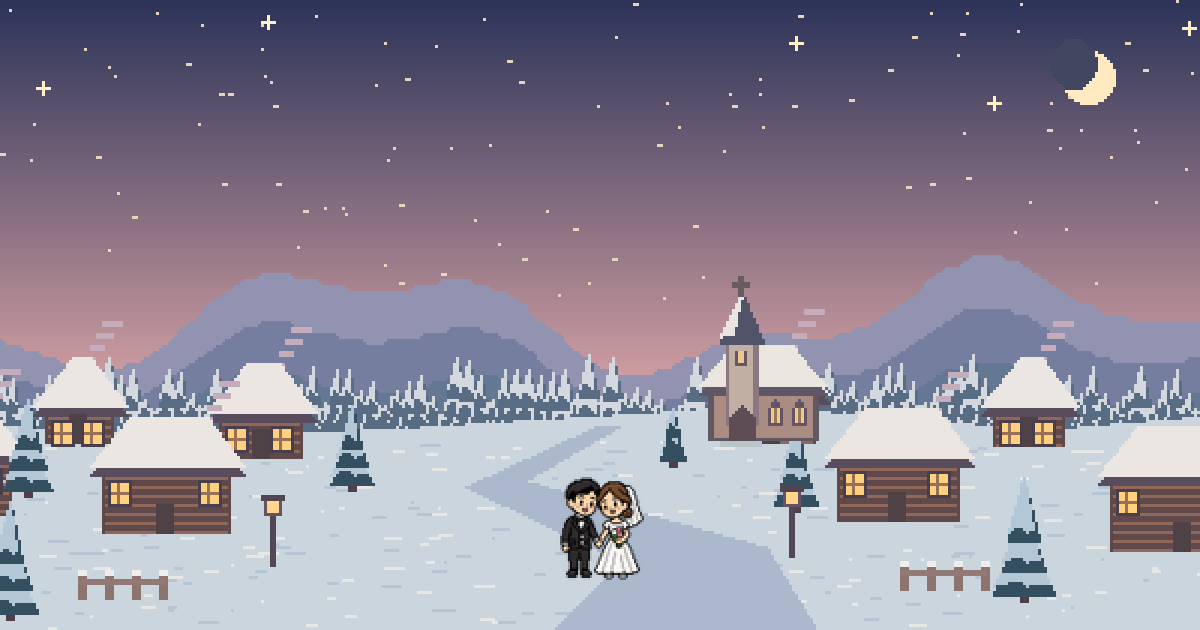
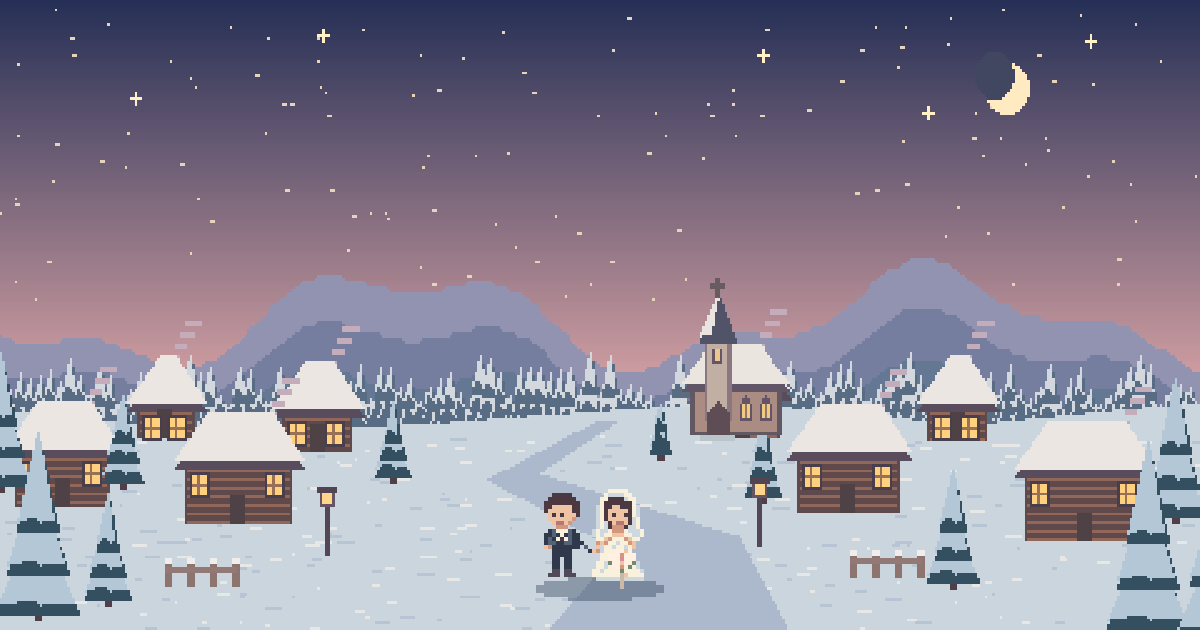
Adjust existing couple pose and court mobile framing

diff --git a/index.html b/index.html
@@ -7,13 +7,13 @@
   <meta name="description" content="눈 내리는 겨울 마을에서 두 사람의 결혼 초대장을 열어 보세요.">
   <meta property="og:title" content="Once Upon a Valley · 겨울 마을의 결혼식">
   <meta property="og:description" content="눈길 끝에서 편지 한 통이 기다리고 있어요. 두 사람의 결혼식에 초대합니다.">
-  <meta property="og:image" content="https://loop-by.github.io/once-upon-a-valley/assets/invitation-preview-bouquet.png">
-  <meta property="og:image:alt" content="노을 지는 겨울 마을에서 하객을 기다리는 신랑과 신부">
+  <meta property="og:image" content="https://loop-by.github.io/once-upon-a-valley/assets/invitation-preview-bouquet.png?v=2">
+  <meta property="og:image:alt" content="노을 지는 겨울 마을에서 신랑과 부케를 든 신부가 손을 맞잡은 픽셀 그림">
   <title>Once Upon a Valley · 겨울 마을의 초대장</title>
-  <link rel="stylesheet" href="style.css?v=11">
+  <link rel="stylesheet" href="style.css?v=12">
   <script src="effects.js?v=6" defer></script>
   <script src="rsvp.js?v=4" defer></script>
-  <script src="quest.js?v=10" defer></script>
+  <script src="quest.js?v=11" defer></script>
 </head>
 <body>
   <header>
@@ -27,7 +27,7 @@
         <button class="keepsake" id="keepsake"><img src="assets/opened.png" alt="">예식 정보</button>
         <div class="title"><h1>Once Upon a Valley</h1><p id="welcome-names"></p></div>
         <div id="snow" aria-hidden="true"></div>
-        <img class="villagers" id="villagers" src="assets/couple-pose.png" alt="턱시도를 입은 신랑과 미니 부케를 든 신부가 손을 맞잡고 서 있는 모습">
+        <img class="villagers" id="villagers" src="assets/village-couple-bouquet.png?v=2" alt="턱시도를 입은 신랑과 웨딩 베일을 쓴 신부가 손을 맞잡고, 신부가 미니 부케를 든 픽셀 그림">
         <div id="item"></div>
         <article id="paper" hidden>
           <small>소중한 당신에게</small><h2>우리, 결혼해요!</h2>

diff --git a/style.css b/style.css
@@ -220,7 +220,6 @@ figure img { width: 128px; }
 .scene[data-speaker="bride"] figure::after { background: linear-gradient(90deg, #26324655 44%, transparent 52%); }
 .scene[data-speaker="groom"] figure::after { background: linear-gradient(90deg, transparent 48%, #26324655 56%); }
 #mood { z-index: 1; }
-.scene[data-chapter="4"] .landscape { flex-basis: 130px; background-position: center 74%; }
 .scene[data-chapter="4"] .dialog.turn-page { animation: ink-in .18s ease-out; }
 .scene[data-chapter="4"] .turn-page figure { animation: none; }
 @keyframes ink-in { from { opacity: .88; } to { opacity: 1; } }
@@ -239,7 +238,6 @@ figure img { width: 128px; }
 #letter-book form { margin-top: 10px; }
 @media (max-width: 620px) {
   .scene[data-chapter="4"] { min-height: min(78svh, 660px); }
-  .scene[data-chapter="4"] .landscape { flex-basis: 68px; }
   .scene[data-task="review"] .dialog { gap: 4px 10px; }
   .scene[data-task="review"] #content p { font-size: 14px; }
   .scene[data-task="review"] .reply-line { line-height: 1.25; }
@@ -257,7 +255,14 @@ figure img { width: 128px; }
   background-size: 100% 100%;
   background-position: center bottom;
 }
-.scene[data-chapter="4"] .landscape { background-position: center 84%; }
+.scene.court .landscape {
+  flex: 0 0 285px;
+  background-position: center bottom;
+  background-size: 100% 100%;
+}
+@media (max-width: 620px) {
+  .scene.court .landscape { flex-basis: 245px; }
+}
 #content .venue-link, #book-details .venue-link {
   display: inline-block; margin: 0; text-decoration: underline; text-underline-offset: 3px;
 }

diff --git a/quest.js b/quest.js
@@ -86,7 +86,6 @@ function render(chapter, speaker, message, mood, item = '') {
   } else {
     prop.textContent = item;
   }
-  byId('villagers').src = chapter === 0 ? 'assets/couple-pose.png' : 'assets/village-couple-bouquet.png';
   byId('place').textContent = chapter >= 3 ? '⌖　눈 내린 법원' : '⌖　별빛 마을';
   scene.classList.toggle('court', chapter >= 3);
   byId('actions').replaceChildren();
